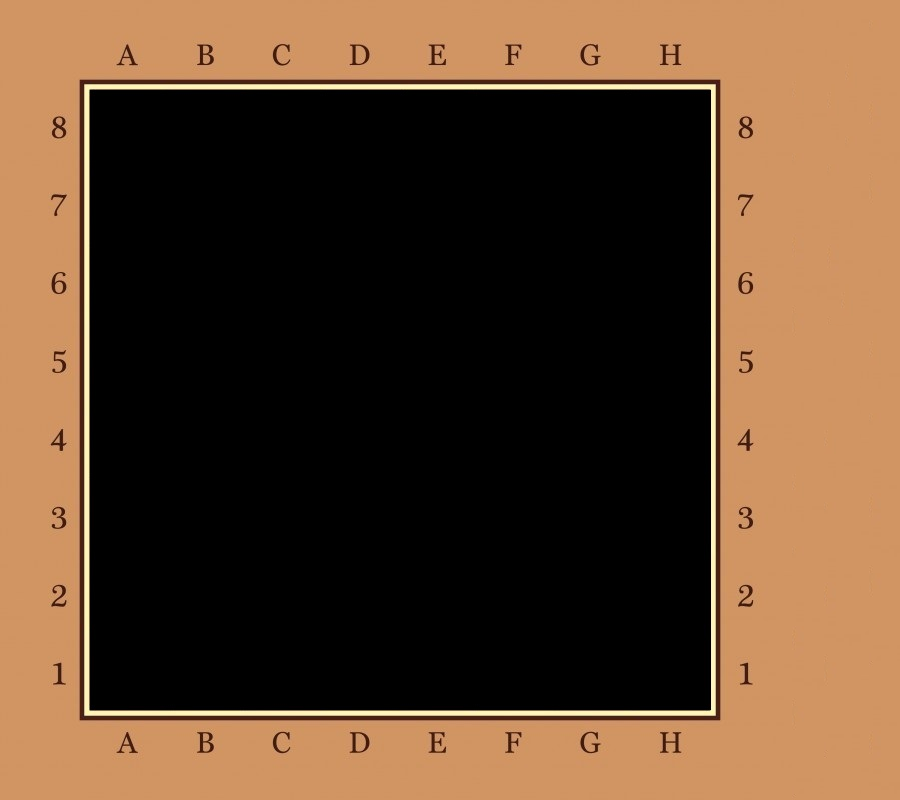
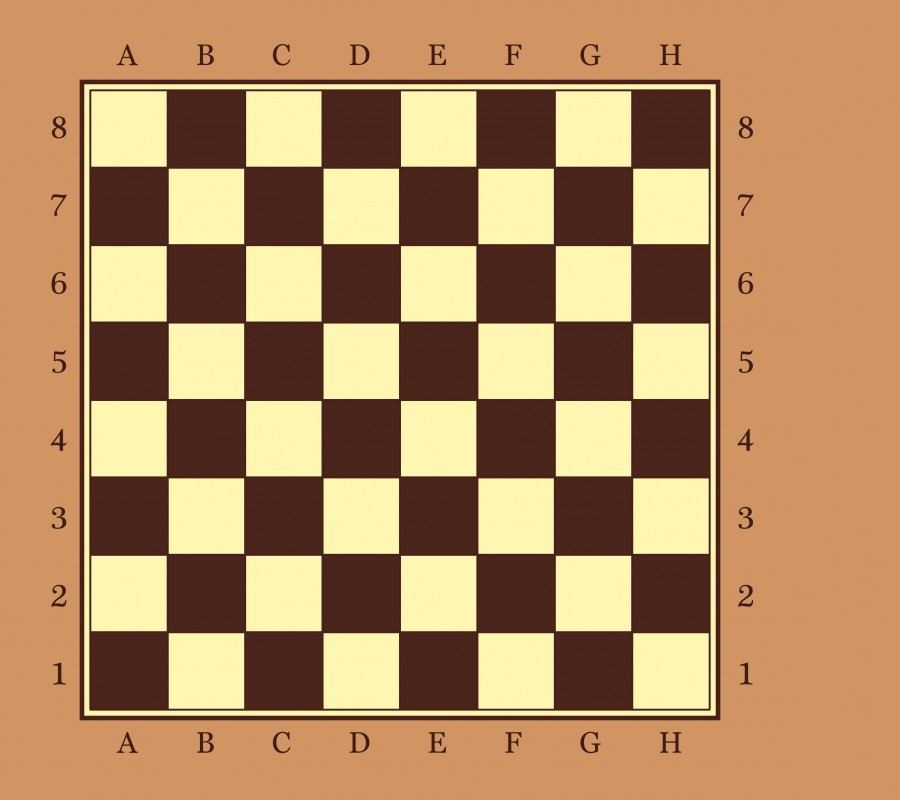
komplet przed implementacją logiki

diff --git a/src/main/java/com/kodilla/checkers/FieldExecutor.java b/src/main/java/com/kodilla/checkers/FieldExecutor.java
@@ -1,66 +1,39 @@
 package com.kodilla.checkers;
 
+import javafx.event.EventHandler;
 import javafx.geometry.Insets;
+import javafx.scene.effect.DropShadow;
+import javafx.scene.input.MouseEvent;
+import javafx.scene.paint.Color;
 
 public class FieldExecutor {
 
+    Field fieldTable[][] = new Field[8][8];
+
     public Field[][] generateFieldTable() {
+        for (int x = 0; x < fieldTable.length; x++) {
+            for (int y = 0; y < fieldTable[x].length; y++) {
+                Field field = new Field(x, y);
+                field.setPrefSize(73, 73);
+                field.setStyle("-fx-background-color: transparent");
+                field.setPadding(new Insets(2, 2, 2, 2));
+                fieldTable[x][y] = field;
 
-        Field fieldTable[][] = new Field[8][8];
+                field.addEventHandler(MouseEvent.MOUSE_ENTERED,
+                        new EventHandler<MouseEvent>() {
+                            @Override
+                            public void handle(MouseEvent e) {
+                                field.setEffect(new DropShadow(33, Color.YELLOW));
+                            }
+                        });
 
-        for (int x = 0; x < 8; x++) {
-            if (x % 2 == 0) {
-                for (int y = 0; y < 8; y = y + 2) {
-                    FieldImage yellowImage = new FieldImage("file:src/main/resources/yellow_field.png");
-                    Field yellowField = new Field(yellowImage, x, y);
-                    yellowField.setGraphic(yellowImage);
-                    yellowField.setPadding(new Insets(2, 2, 2, 2));
-                    fieldTable[x][y] = yellowField;
-                }
-            } else {
-                for (int y = 1; y < 8; y = y + 2) {
-                    FieldImage yellowImage = new FieldImage("file:src/main/resources/yellow_field.png");
-                    Field yellowField = new Field(yellowImage, x, y);
-                    yellowField.setGraphic(yellowImage);
-                    yellowField.setPadding(new Insets(2, 2, 2, 2));
-                    fieldTable[x][y] = yellowField;
-                }
-            }
-        }
-
-        for (int x = 0; x < 8; x++) {
-            if (x % 2 != 0) {
-                for (int y = 0; y < 8; y = y + 2) {
-                    FieldImage yellowImage = new FieldImage("file:src/main/resources/brown_field.png");
-                    Field yellowField = new Field(yellowImage, x, y);
-                    yellowField.setGraphic(yellowImage);
-                    yellowField.setPadding(new Insets(2, 2, 2, 2));
-                    fieldTable[x][y] = yellowField;
-                }
-            } else {
-                for (int y = 1; y < 8; y = y + 2) {
-                    FieldImage yellowImage = new FieldImage("file:src/main/resources/brown_field.png");
-                    Field yellowField = new Field(yellowImage, x, y);
-                    yellowField.setGraphic(yellowImage);
-                    yellowField.setPadding(new Insets(2, 2, 2, 2));
-                    fieldTable[x][y] = yellowField;
-                }
-            }
-        }
-
-        for (int i = 0; i < fieldTable.length; i++) {
-            for (int j = 0; j < fieldTable[i].length; j++) {
-                fieldTable[i][j].setOnAction((event) -> {
-                    Field clieckedField = ClickedField.getField();
-                    if (clieckedField == null) {
-                        System.out.println("Przycisk nie jest zaznaczony");
-                        ClickedField.setField((Field) event.getSource());
-                    } else {
-                        System.out.println("Ostatnio zaznaczony przycisk to " + clieckedField.getX() + " : " + clieckedField.getY());
-                        System.out.println("Wykonuje jakas akcje albo i nie");
-                        ClickedField.setField(null);
-                    }
-                });
+                field.addEventHandler(MouseEvent.MOUSE_EXITED,
+                        new EventHandler<MouseEvent>() {
+                            @Override
+                            public void handle(MouseEvent e) {
+                                field.setEffect(null);
+                            }
+                        });
             }
         }
         return fieldTable;

diff --git a/src/main/java/com/kodilla/checkers/PawnExecutor.java b/src/main/java/com/kodilla/checkers/PawnExecutor.java
@@ -1,56 +1,39 @@
 package com.kodilla.checkers;
 
-import javafx.geometry.Insets;
-
-import java.util.ArrayList;
-import java.util.List;
+import static javafx.scene.paint.Color.BLACK;
+import static javafx.scene.paint.Color.WHITE;
 
 public class PawnExecutor {
 
-    List<Pawn> blackPawnList = new ArrayList<>();
-    List<Pawn> whitePawnList = new ArrayList<>();
-
-    public List<Pawn> getBlackPawnList() {
+   public void addBlackPawnToField(Field fieldTable[][]) {
         for (int y = 0; y < 3; y++) {
             if (y != 1) {
                 for (int x = 1; x < 8; x = x + 2) {
-                    PawnImage image = new PawnImage("file:src/main/resources/black_pawn.png");
-                    Pawn blackPawn = new Pawn(image, x, y);
-                    blackPawn.setGraphic(image);
-                    blackPawn.setPadding(new Insets(2, 2, 2, 2));
-                    blackPawnList.add(blackPawn);
+                    Pawn blackPawn = new Pawn(30, BLACK);
+                    fieldTable[x][y].setGraphic(blackPawn);
                 }
             } else {
                 for (int x = 0; x < 7; x = x + 2) {
-                    PawnImage image = new PawnImage("file:src/main/resources/black_pawn.png");
-                    Pawn blackPawn = new Pawn(image, x, y);
-                    blackPawn.setGraphic(image);
-                    blackPawn.setPadding(new Insets(2, 2, 2, 2));
-                    blackPawnList.add(blackPawn);
+                    Pawn blackPawn = new Pawn(30, BLACK);
+                    fieldTable[x][y].setGraphic(blackPawn);
                 }
             }
-        } return blackPawnList;
+        }
     }
 
-    public List<Pawn> getWhitePawnList() {
+    public void addWhitePawnToField(Field fieldTable[][]) {
         for (int y = 7; y > 4; y--) {
             if (y != 6) {
                 for (int x = 0; x < 8; x = x + 2) {
-                    PawnImage image = new PawnImage("file:src/main/resources/white_pawn.png");
-                    Pawn whitePawn = new Pawn(image, x, y);
-                    whitePawn.setGraphic(image);
-                    whitePawn.setPadding(new Insets(2, 2, 2, 2));
-                    whitePawnList.add(whitePawn);
+                    Pawn whitePawn = new Pawn(30, WHITE);
+                    fieldTable[x][y].setGraphic(whitePawn);
                 }
             } else {
                 for (int x = 1; x<8; x = x + 2) {
-                    PawnImage image = new PawnImage("file:src/main/resources/white_pawn.png");
-                    Pawn whitePawn = new Pawn(image, x, y);
-                    whitePawn.setGraphic(image);
-                    whitePawn.setPadding(new Insets(2, 2, 2, 2));
-                    whitePawnList.add(whitePawn);
+                    Pawn whitePawn = new Pawn(30, WHITE);
+                    fieldTable[x][y].setGraphic(whitePawn);
                 }
             }
-        } return whitePawnList;
+        }
     }
 }

diff --git a/src/main/java/com/kodilla/checkers/Checkers.java b/src/main/java/com/kodilla/checkers/Checkers.java
@@ -1,17 +1,19 @@
 package com.kodilla.checkers;
 
 import javafx.application.Application;
+import javafx.event.EventHandler;
 import javafx.geometry.HPos;
 import javafx.geometry.Insets;
 import javafx.geometry.VPos;
 import javafx.scene.Scene;
 import javafx.scene.control.Button;
+import javafx.scene.effect.DropShadow;
 import javafx.scene.image.Image;
+import javafx.scene.input.MouseEvent;
 import javafx.scene.layout.*;
-import javafx.scene.paint.Color;
 import javafx.stage.Stage;
 
-import java.util.List;
+import static javafx.scene.paint.Color.BLACK;
 
 public class Checkers extends Application {
 
@@ -50,9 +52,11 @@ public class Checkers extends Application {
             grid.getRowConstraints().add(rowConst);
         }
 
-
         FieldExecutor fieldExecutor = new FieldExecutor();
         Field fieldTable[][] = fieldExecutor.generateFieldTable();
+
+        Logic logic = new Logic();
+        logic.logicImplementation(fieldTable);
 
         for (int x=0; x<8; x++) {
             for (int y=0; y<8; y++) {
@@ -61,26 +65,23 @@ public class Checkers extends Application {
             }
         }
 
-        PawnExecutor pawnExecutor = new PawnExecutor();
-        List<Pawn> blackPawnList = pawnExecutor.getBlackPawnList();
-        List<Pawn> whitePawnList = pawnExecutor.getWhitePawnList();
-
         Button startButton = new Button();
         startButton.setText("new game");
+        startButton.setStyle("-fx-font: 12 arial; -fx-base: #b6e7c9;");
         grid.add(startButton, 9, 0);
 
         startButton.setOnAction((newGame) -> {
-            for (int i=0; i<blackPawnList.size(); i++) {
-                Pawn blackPawn = blackPawnList.get(i);
-                grid.add(blackPawn, blackPawn.getX(), blackPawn.getY());
+            for (int x=0; x<8; x++) {
+                for (int y=0; y<8; y++) {
+                    fieldTable[x][y].setGraphic(null);
+                }
             }
-            for (int i=0; i<whitePawnList.size(); i++) {
-                Pawn whitePawn = whitePawnList.get(i);
-                grid.add(whitePawn, whitePawn.getX(), whitePawn.getY());
-            }
+            PawnExecutor pawnExecutor = new PawnExecutor();
+            pawnExecutor.addBlackPawnToField(fieldTable);
+            pawnExecutor.addWhitePawnToField(fieldTable);
         });
 
-        Scene scene = new Scene(grid, 900, 800, Color.BLACK);
+        Scene scene = new Scene(grid, 900, 800, BLACK);
 
         primaryStage.setTitle("Checkers");
         primaryStage.setScene(scene);

diff --git a/src/main/java/com/kodilla/checkers/Logic.java b/src/main/java/com/kodilla/checkers/Logic.java
@@ -1,0 +1,39 @@
+package com.kodilla.checkers;
+
+public class Logic {
+
+    public Field[][] logicImplementation(Field fieldTable[][]) {
+
+        for (int x = 0; x < fieldTable.length; x++) {
+            for (int y = 0; y < fieldTable[x].length; y++) {
+                fieldTable[x][y].setOnAction(event -> {
+                    Field clieckedField = ClickedField.getField();
+                    if (clieckedField == null) {
+                        System.out.println("Przycisk nie jest zaznaczony");
+                        ClickedField.setField((Field) event.getSource());
+                    } else {
+                        System.out.println("Ostatnio zaznaczony przycisk to " + clieckedField.getX() + " : " + clieckedField.getY());
+                        System.out.println("Wykonuje jakas akcje albo i nie");
+                        ClickedField.setField(null);
+                    }
+                });
+            }
+        }
+
+        /*for (int x = 0; x < fieldTable.length; x++) {
+            for (int y = 0; y < fieldTable[x].length; y++) {
+                fieldTable[x][y].setOnAction(move -> {
+                    Field clieckedField = ClickedField.getField();
+                    if (clieckedField.getGraphic() == null) {
+                        System.out.println("tutaj jest pionek");
+                    } else {
+                        System.out.println("tutaj nie ma pionka");
+                    }
+
+                });
+            }
+        }*/
+
+        return fieldTable;
+    }
+}

diff --git a/src/main/java/com/kodilla/checkers/Pawn.java b/src/main/java/com/kodilla/checkers/Pawn.java
@@ -1,28 +1,10 @@
 package com.kodilla.checkers;
 
-import javafx.scene.control.Button;
+import javafx.scene.paint.Paint;
+import javafx.scene.shape.Circle;
 
-public class Pawn extends Button {
-
-    PawnImage pawnImage;
-    private int x;
-    private int y;
-
-    public Pawn(PawnImage pawnImage, int x, int y) {
-        this.pawnImage = pawnImage;
-        this.x = x;
-        this.y = y;
-    }
-
-    public PawnImage getPawnImage() {
-        return pawnImage;
-    }
-
-    public int getX() {
-        return x;
-    }
-
-    public int getY() {
-        return y;
+public class Pawn extends Circle {
+    public Pawn(double radius, Paint fill) {
+        super(radius, fill);
     }
 }

diff --git a/src/main/java/com/kodilla/checkers/Field.java b/src/main/java/com/kodilla/checkers/Field.java
@@ -4,18 +4,12 @@ import javafx.scene.control.Button;
 
 public class Field extends Button {
 
-    private FieldImage fieldImage;
     private int x;
     private int y;
 
-    public Field(FieldImage fieldImage, int x, int y) {
-        this.fieldImage = fieldImage;
+    public Field(int x, int y) {
         this.x = x;
         this.y = y;
-    }
-
-    public FieldImage getFieldImage() {
-        return fieldImage;
     }
 
     public int getX() {
@@ -24,5 +18,13 @@ public class Field extends Button {
 
     public int getY() {
         return y;
+    }
+
+    public void setX(int x) {
+        this.x = x;
+    }
+
+    public void setY(int y) {
+        this.y = y;
     }
 }

diff --git a/src/main/java/com/kodilla/checkers/ClickedField.java b/src/main/java/com/kodilla/checkers/ClickedField.java
@@ -2,7 +2,7 @@ package com.kodilla.checkers;
 
 public class ClickedField {
 
-    private static Field field = null;
+    private static Field field;
 
     public static Field getField() {
         return field;
